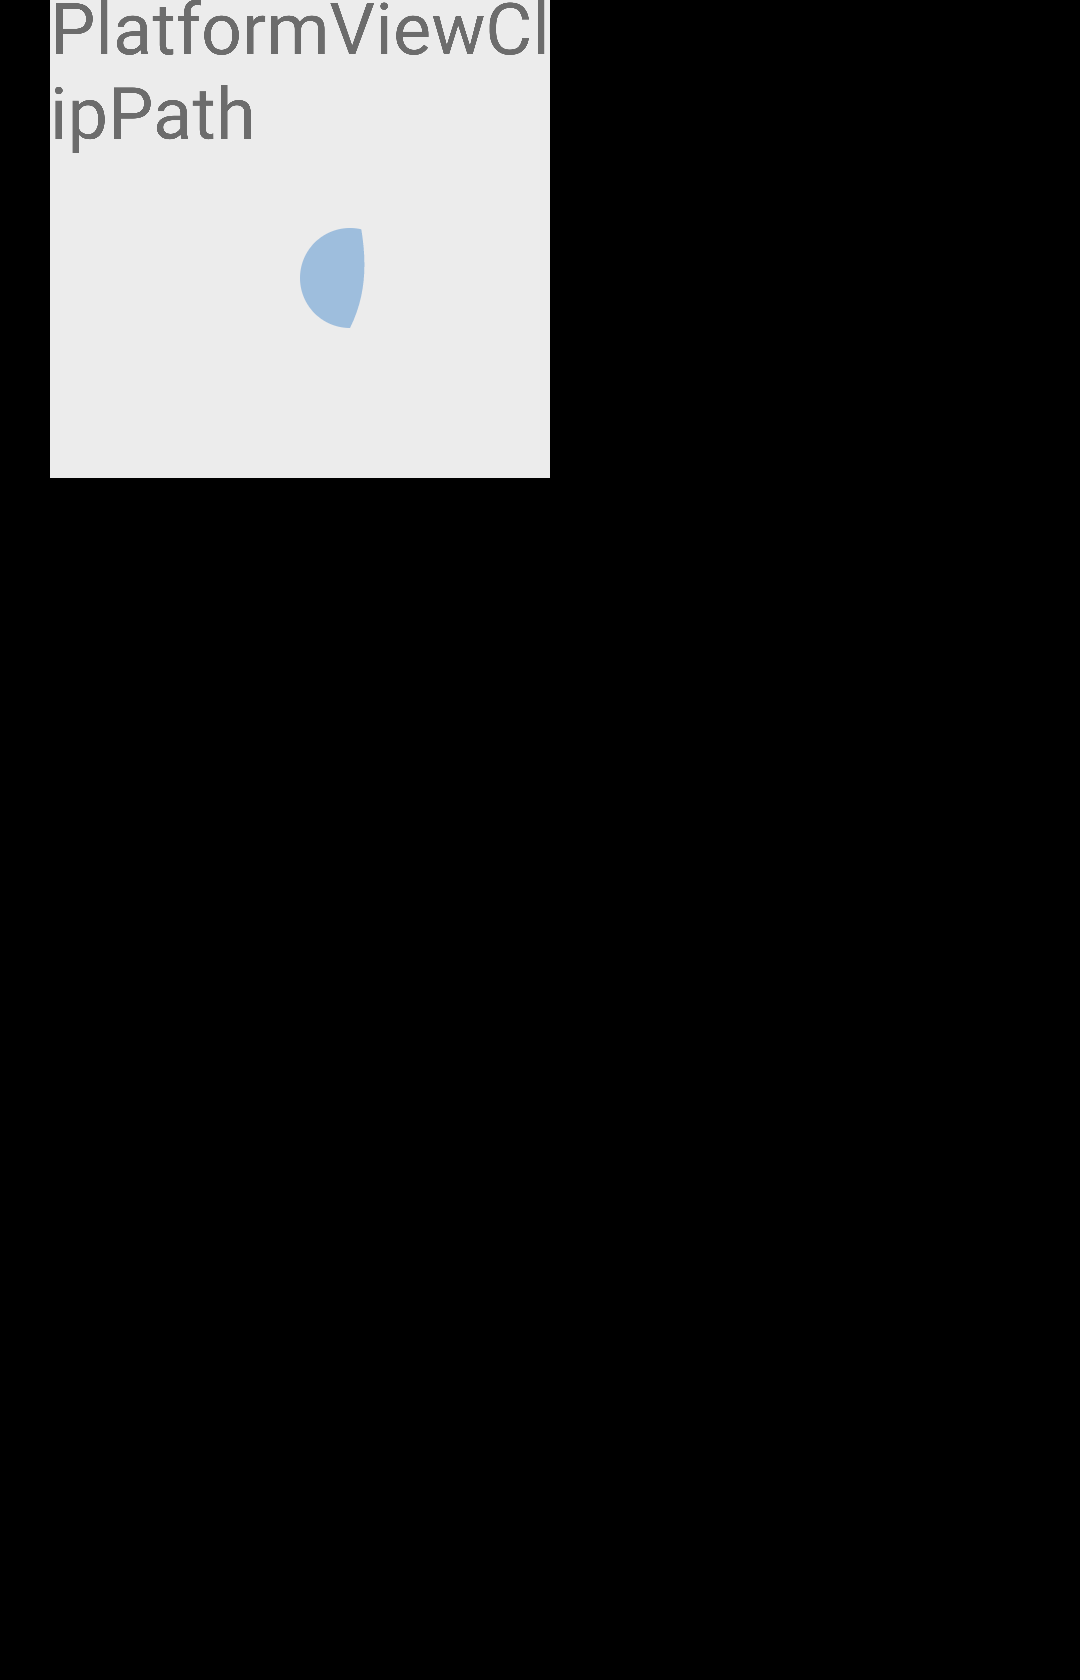
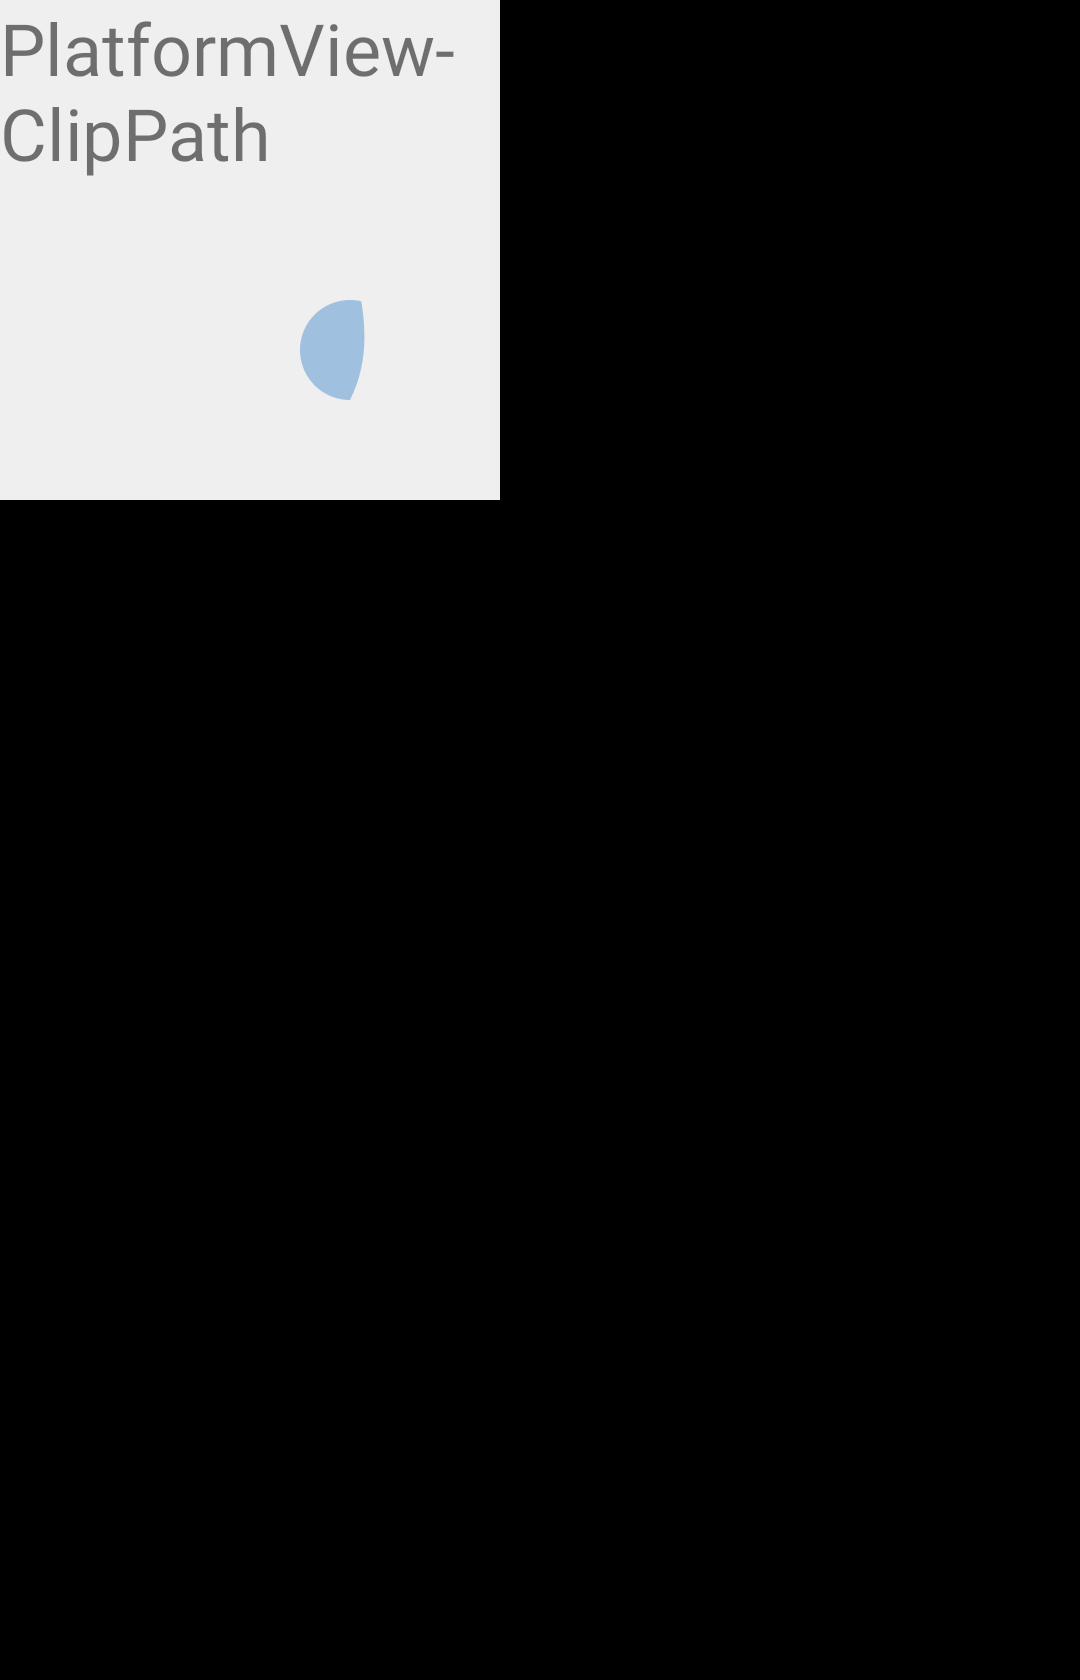
Fix and clean up scenario app for Android (#22540)

Changed region(s): [[0.0, 0.0, 0.5194, 0.3095], [0.275, 0.1238, 0.3361, 0.2476]]

diff --git a/testing/scenario_app/lib/src/platform_view.dart b/testing/scenario_app/lib/src/platform_view.dart
@@ -46,8 +46,6 @@ class PlatformViewScenario extends Scenario with _BasePlatformViewScenarioMixin 
   void onBeginFrame(Duration duration) {
     final SceneBuilder builder = SceneBuilder();
 
-    builder.pushOffset(0, 0);
-
     finishBuilderByAddingPlatformViewAndPicture(builder, id);
   }
 }
@@ -69,8 +67,6 @@ class PlatformViewNoOverlayIntersectionScenario extends Scenario with _BasePlatf
   @override
   void onBeginFrame(Duration duration) {
     final SceneBuilder builder = SceneBuilder();
-
-    builder.pushOffset(0, 0);
 
     finishBuilderByAddingPlatformViewAndPicture(
       builder,
@@ -98,8 +94,6 @@ class PlatformViewPartialIntersectionScenario extends Scenario with _BasePlatfor
   void onBeginFrame(Duration duration) {
     final SceneBuilder builder = SceneBuilder();
 
-    builder.pushOffset(0, 0);
-
     finishBuilderByAddingPlatformViewAndPicture(
       builder,
       id,
@@ -125,8 +119,6 @@ class PlatformViewTwoIntersectingOverlaysScenario extends Scenario with _BasePla
   @override
   void onBeginFrame(Duration duration) {
     final SceneBuilder builder = SceneBuilder();
-
-    builder.pushOffset(0, 0);
 
     _addPlatformViewToScene(builder, id, 500, 500);
     final PictureRecorder recorder = PictureRecorder();
@@ -166,8 +158,6 @@ class PlatformViewOneOverlayTwoIntersectingOverlaysScenario extends Scenario wit
   @override
   void onBeginFrame(Duration duration) {
     final SceneBuilder builder = SceneBuilder();
-
-    builder.pushOffset(0, 0);
 
     _addPlatformViewToScene(builder, id, 500, 500);
     final PictureRecorder recorder = PictureRecorder();
@@ -217,8 +207,6 @@ class MultiPlatformViewWithoutOverlaysScenario extends Scenario with _BasePlatfo
   void onBeginFrame(Duration duration) {
     final SceneBuilder builder = SceneBuilder();
 
-    builder.pushOffset(0, 0);
-
     builder.pushOffset(0, 600);
     _addPlatformViewToScene(builder, firstId, 500, 500);
     builder.pop();
@@ -258,8 +246,6 @@ class PlatformViewMaxOverlaysScenario extends Scenario with _BasePlatformViewSce
   @override
   void onBeginFrame(Duration duration) {
     final SceneBuilder builder = SceneBuilder();
-
-    builder.pushOffset(0, 0);
 
     _addPlatformViewToScene(builder, id, 500, 500);
     final PictureRecorder recorder = PictureRecorder();
@@ -314,8 +300,6 @@ class MultiPlatformViewScenario extends Scenario with _BasePlatformViewScenarioM
   void onBeginFrame(Duration duration) {
     final SceneBuilder builder = SceneBuilder();
 
-    builder.pushOffset(0, 0);
-
     builder.pushOffset(0, 600);
     _addPlatformViewToScene(builder, firstId, 500, 500);
     builder.pop();
@@ -357,13 +341,13 @@ class MultiPlatformViewBackgroundForegroundScenario extends Scenario with _BaseP
   void _firstFrame() {
     final SceneBuilder builder = SceneBuilder();
 
-    builder.pushOffset(0, 0);
-
-    builder.pushOffset(0, 600);
+    builder.pushOffset(50, 600);
     _addPlatformViewToScene(builder, firstId, 500, 500);
     builder.pop();
 
+    builder.pushOffset(50, 0);
     _addPlatformViewToScene(builder, secondId, 500, 500);
+    builder.pop();
 
     final PictureRecorder recorder = PictureRecorder();
     final Canvas canvas = Canvas(recorder);
@@ -374,7 +358,6 @@ class MultiPlatformViewBackgroundForegroundScenario extends Scenario with _BaseP
     final Picture picture = recorder.endRecording();
     builder.addPicture(const Offset(0, 0), picture);
 
-    builder.pop();
     final Scene scene = builder.build();
     window.render(scene);
     scene.dispose();
@@ -383,13 +366,12 @@ class MultiPlatformViewBackgroundForegroundScenario extends Scenario with _BaseP
   void _secondFrame() {
     final SceneBuilder builder = SceneBuilder();
 
-    builder.pushOffset(0, 0);
-
     builder.pushOffset(0, 600);
     _addPlatformViewToScene(builder, firstId, 500, 500);
     builder.pop();
 
     _addPlatformViewToScene(builder, secondId, 500, 500);
+
     final Scene scene = builder.build();
     window.render(scene);
     scene.dispose();
@@ -430,9 +412,10 @@ class PlatformViewClipRectScenario extends Scenario with _BasePlatformViewScenar
 
   @override
   void onBeginFrame(Duration duration) {
-    final SceneBuilder builder = SceneBuilder();
-    builder.pushOffset(0, 0);
-    builder.pushClipRect(const Rect.fromLTRB(100, 100, 400, 400));
+    final SceneBuilder builder =
+      SceneBuilder()
+      ..pushClipRect(const Rect.fromLTRB(100, 100, 400, 400));
+
     finishBuilderByAddingPlatformViewAndPicture(builder, id);
   }
 }
@@ -446,8 +429,6 @@ class PlatformViewClipRRectScenario extends PlatformViewScenario {
   @override
   void onBeginFrame(Duration duration) {
     final SceneBuilder builder = SceneBuilder();
-
-    builder.pushOffset(0, 0);
     builder.pushClipRRect(
       RRect.fromLTRBAndCorners(
         100,
@@ -471,18 +452,14 @@ class PlatformViewClipPathScenario extends PlatformViewScenario {
 
   @override
   void onBeginFrame(Duration duration) {
-    final SceneBuilder builder = SceneBuilder();
-
-    builder.pushOffset(0, 0);
-
     final Path path = Path()
       ..moveTo(100, 100)
       ..quadraticBezierTo(50, 250, 100, 400)
       ..lineTo(350, 400)
       ..cubicTo(400, 300, 300, 200, 350, 100)
       ..close();
-    builder.pushClipPath(path);
 
+    final SceneBuilder builder = SceneBuilder()..pushClipPath(path);
     finishBuilderByAddingPlatformViewAndPicture(builder, id);
   }
 }
@@ -495,15 +472,12 @@ class PlatformViewTransformScenario extends PlatformViewScenario {
 
   @override
   void onBeginFrame(Duration duration) {
-    final SceneBuilder builder = SceneBuilder();
-
-    builder.pushOffset(0, 0);
     final Matrix4 matrix4 = Matrix4.identity()
       ..rotateZ(1)
       ..scale(0.5, 0.5, 1.0)
       ..translate(1000.0, 100.0, 0.0);
 
-    builder.pushTransform(matrix4.storage);
+    final SceneBuilder builder = SceneBuilder()..pushTransform(matrix4.storage);
 
     finishBuilderByAddingPlatformViewAndPicture(builder, id);
   }
@@ -517,11 +491,7 @@ class PlatformViewOpacityScenario extends PlatformViewScenario {
 
   @override
   void onBeginFrame(Duration duration) {
-    final SceneBuilder builder = SceneBuilder();
-
-    builder.pushOffset(0, 0);
-    builder.pushOpacity(150);
-
+    final SceneBuilder builder = SceneBuilder()..pushOpacity(150);
     finishBuilderByAddingPlatformViewAndPicture(builder, id);
   }
 }
@@ -600,15 +570,11 @@ class PlatformViewForTouchIOSScenario extends Scenario
 
   void _firstFrame() {
     final SceneBuilder builder = SceneBuilder();
-
-    builder.pushOffset(0, 0);
     finishBuilderByAddingPlatformViewAndPicture(builder, _viewId);
   }
 
   void _secondFrame() {
-    final SceneBuilder builder = SceneBuilder();
-
-    builder.pushOffset(5, 5);
+    final SceneBuilder builder = SceneBuilder()..pushOffset(5, 5);
     finishBuilderByAddingPlatformViewAndPicture(builder, _viewId);
   }
 }

diff --git a/testing/scenario_app/android/app/src/androidTest/java/dev/flutter/scenariosui/ScreenshotUtil.java b/testing/scenario_app/android/app/src/androidTest/java/dev/flutter/scenariosui/ScreenshotUtil.java
@@ -4,8 +4,6 @@
 
 package dev.flutter.scenariosui;
 
-import android.app.Activity;
-import android.content.Context;
 import android.graphics.Bitmap;
 import android.os.Bundle;
 import android.os.Handler;
@@ -129,28 +127,6 @@ public class ScreenshotUtil {
     album = null;
   }
 
-  private static int getStatusBarHeight() {
-    final Context context = InstrumentationRegistry.getTargetContext();
-    // Resource name defined in
-    // https://android.googlesource.com/platform/frameworks/base/+/master/core/res/res/values/dimens.xml#34
-    final int resourceId =
-        context.getResources().getIdentifier("status_bar_height", "dimen", "android");
-    int statusBarHeight = 0;
-    if (resourceId > 0) {
-      statusBarHeight = context.getResources().getDimensionPixelSize(resourceId);
-    }
-    return statusBarHeight;
-  }
-
-  private static int getActionBarHeight(Activity activity) {
-    int actionBarHeight = 0;
-    final android.content.res.TypedArray styledAttributes =
-        activity.getTheme().obtainStyledAttributes(new int[] {android.R.attr.actionBarSize});
-    actionBarHeight = (int) styledAttributes.getDimension(0, 0);
-    styledAttributes.recycle();
-    return actionBarHeight;
-  }
-
   /**
    * Captures a screenshot of {@code TestableFlutterActivity}.
    *
@@ -182,13 +158,7 @@ public class ScreenshotUtil {
             Bitmap bitmap =
                 InstrumentationRegistry.getInstrumentation().getUiAutomation().takeScreenshot();
             // Remove the status and action bars from the screenshot capture.
-            bitmap =
-                Bitmap.createBitmap(
-                    bitmap,
-                    0,
-                    getStatusBarHeight(),
-                    bitmap.getWidth(),
-                    bitmap.getHeight() - getStatusBarHeight() - getActionBarHeight(activity));
+            bitmap = Bitmap.createBitmap(bitmap, 0, 0, bitmap.getWidth(), bitmap.getHeight());
 
             final String screenshotName = String.format("%s__%s", testClass, testName);
             // Write bitmap to the album.

diff --git a/testing/scenario_app/ios/Scenarios/ScenariosUITests/UnobstructedPlatformViewTests.m b/testing/scenario_app/ios/Scenarios/ScenariosUITests/UnobstructedPlatformViewTests.m
@@ -195,30 +195,30 @@
 
   XCUIElement* platform_view1 = app.textViews[@"platform_view[0]"];
   XCTAssertTrue([platform_view1 waitForExistenceWithTimeout:1.0]);
-  XCTAssertEqual(platform_view1.frame.origin.x, 25);
+  XCTAssertEqual(platform_view1.frame.origin.x, 50);
   XCTAssertEqual(platform_view1.frame.origin.y, 325);
   XCTAssertEqual(platform_view1.frame.size.width, 250);
   XCTAssertEqual(platform_view1.frame.size.height, 250);
 
   XCUIElement* platform_view2 = app.textViews[@"platform_view[1]"];
   XCTAssertTrue(platform_view2.exists);
-  XCTAssertEqual(platform_view2.frame.origin.x, 25);
+  XCTAssertEqual(platform_view2.frame.origin.x, 50);
   XCTAssertEqual(platform_view2.frame.origin.y, 25);
   XCTAssertEqual(platform_view2.frame.size.width, 250);
   XCTAssertEqual(platform_view2.frame.size.height, 250);
 
   XCUIElement* overlay1 = app.otherElements[@"platform_view[0].overlay[0]"];
   XCTAssertTrue(overlay1.exists);
-  XCTAssertEqual(overlay1.frame.origin.x, 25);
+  XCTAssertEqual(overlay1.frame.origin.x, 50);
   XCTAssertEqual(overlay1.frame.origin.y, 325);
-  XCTAssertEqual(overlay1.frame.size.width, 225);
+  XCTAssertEqual(overlay1.frame.size.width, 200);
   XCTAssertEqual(overlay1.frame.size.height, 175);
 
   XCUIElement* overlay2 = app.otherElements[@"platform_view[1].overlay[0]"];
   XCTAssertTrue(overlay2.exists);
-  XCTAssertEqual(overlay2.frame.origin.x, 25);
+  XCTAssertEqual(overlay2.frame.origin.x, 50);
   XCTAssertEqual(overlay2.frame.origin.y, 25);
-  XCTAssertEqual(overlay2.frame.size.width, 225);
+  XCTAssertEqual(overlay2.frame.size.width, 200);
   XCTAssertEqual(overlay2.frame.size.height, 250);
 }
 

diff --git a/testing/scenario_app/README.md b/testing/scenario_app/README.md
@@ -46,7 +46,7 @@ The test is run on a x86 emulator. To run the test locally, you must create an e
 
 ```
 hw.lcd.density = 480
-hw.lcd.height = 1920
+hw.lcd.height = 1680
 hw.lcd.width = 1080
 lcd.depth = 16
 ```
